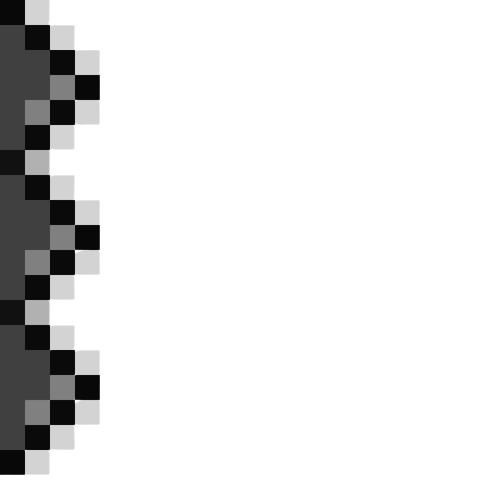
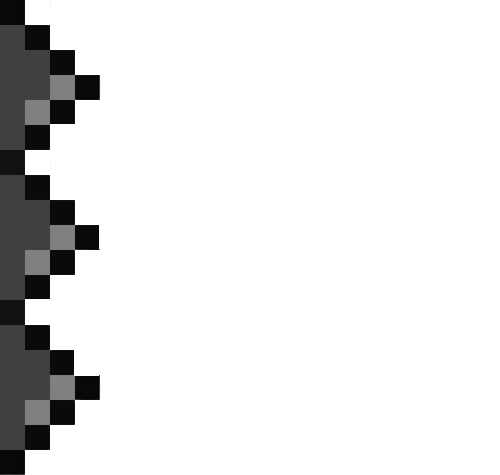
Printing the portal and transporting only when in range

Changed region(s): [[0.0, 0.0, 0.21, 1.0]]

diff --git a/src/mvc/Viewer.java b/src/mvc/Viewer.java
@@ -16,6 +16,7 @@ import javax.swing.JPanel;
 import javax.swing.Timer;
 
 import level.GameLevel;
+import level.Portal;
 import util.GameObject;
 
 
@@ -47,6 +48,7 @@ SOFTWARE.
  */ 
 public class Viewer extends JPanel {
 	private long CurrentAnimationTime= 0; 
+	private final String portalTexture = "res/level/floorLower.png";
 	
 	Model gameworld = new Model(1280, 720); 
 	 
@@ -106,6 +108,7 @@ public class Viewer extends JPanel {
 		
 		// Draw level
 		drawLevel(g);
+		drawPortals(g);
 		
 		drawSpikes(g);
 		  
@@ -159,9 +162,9 @@ public class Viewer extends JPanel {
 		try {
 			Integer height = getResHeight();
 			Image myImage = ImageIO.read(TextureToLoad);
-			g.drawImage(myImage, 0, 0, 300, height/3, 0, 0, 500, 500, null);
-			g.drawImage(myImage, 0, height/3, 300, height*2/3, 0, 0, 500, 500, null);
-			g.drawImage(myImage, 0, height*2/3, 300, height, 0, 0, 500, 500, null);
+			g.drawImage(myImage, 0, 0, 300, height/3, 0, 0, 500, 475, null);
+			g.drawImage(myImage, 0, height/3, 300, height*2/3, 0, 0, 500, 475, null);
+			g.drawImage(myImage, 0, height*2/3, 300, height, 0, 0, 500, 475, null);
 //			g.drawImage(myImage, 0, height*3/4, 300, height, 0, 0, 500, 500, null);
 			
 		} catch (IOException e) {
@@ -179,6 +182,21 @@ public class Viewer extends JPanel {
 			//64 by 128 
 			 g.drawImage(myImage, x,y, x+width, y+height, 0 , 0, 63, 127, null); 
 			
+		} catch (IOException e) {
+			// TODO Auto-generated catch block
+			e.printStackTrace();
+		}
+	}
+	
+	private void drawPortals(Graphics g) {
+		GameLevel level = gameworld.getLevel();	
+		
+		try {
+			File TextureToLoad = new File(portalTexture);
+			Image portalImage = ImageIO.read(TextureToLoad);
+			for (Portal p : level.getPortals()) {
+				g.drawImage(portalImage, p.getStart(), getResHeight()*3/8, p.getEnd(), getResHeight()/2, 90, 25, 0, 0, null);
+			}		
 		} catch (IOException e) {
 			// TODO Auto-generated catch block
 			e.printStackTrace();

diff --git a/src/util/Player.java b/src/util/Player.java
@@ -17,7 +17,6 @@ public class Player extends GameObject {
 	}
     
     public boolean isOnAir(GameLevel gameLevel)  {
-    	// This should call gameLevel
     	if (gameLevel.getPlayerOnUpper()) {
     		GameObject upper = gameLevel.getUpperFloor();
     		return this.getCentre().getY() + getHeight()/1.5 < upper.getCentre().getY() - upper.getHeight();
@@ -59,10 +58,23 @@ public class Player extends GameObject {
 			lastMovingDirection = 1;
 		}
 
-		/*if(Controller.getInstance().isKeyWPressed())
+		if(Controller.getInstance().isKeyWPressed())
 		{
-			Player.getCentre().ApplyVector( new Vector3f(0,2,0));
-		}*/
+			if (gameLevel.playerCanSwitch(this.getCentre().getX()) && !gameLevel.getPlayerOnUpper()) {
+				gameLevel.switchFloor();
+				float switchMovement = gameLevel.getUpperFloor().getCentre().getY();
+				this.getCentre().ApplyVector(new Vector3f(0, switchMovement, 0));
+			}
+		}
+		
+		if(Controller.getInstance().isKeySPressed())
+		{
+			if (gameLevel.playerCanSwitch(this.getCentre().getX()) && gameLevel.getPlayerOnUpper()) {
+				gameLevel.switchFloor();
+				float switchMovement = gameLevel.getUpperFloor().getCentre().getY();
+				this.getCentre().ApplyVector(new Vector3f(0, -switchMovement*2/3, 0));
+			}
+		}
 		
 		//if(Controller.getInstance().isKeySPressed()){Player.getCentre().ApplyVector( new Vector3f(0,-2,0));}
 //		System.out.println(jumpingIterations);

diff --git a/src/level/LevelScreen.java b/src/level/LevelScreen.java
@@ -11,14 +11,20 @@ public class LevelScreen {
 	private boolean playerOnUpper = false;
 	
 	// private ArrayList<Obstacle> obstacles = new ArrayList<Obstacle>();
-	// private ArrayList<Portal> portals = new ArrayList<portal>();
+	private ArrayList<Portal> portals = new ArrayList<Portal>();
 	
-	public LevelScreen(GameObject lowerFloor, GameObject upperFloor, GameObject spikes) {
+	public LevelScreen(GameObject lowerFloor, GameObject upperFloor, GameObject spikes, 
+					   ArrayList<Portal> portals) {
 		this.lowerFloor = lowerFloor;
 		this.upperFloor = upperFloor;
 		this.spikes = spikes;
+		this.portals = portals;
 	}
 	
+	public ArrayList<Portal> getPortals() {
+		return portals;
+	}
+		
 	public GameObject getSpikes() {
 		return spikes;
 	}
@@ -31,9 +37,12 @@ public class LevelScreen {
 		return upperFloor;
 	}
 	
-	public boolean playerCanSwitch() {
+	public boolean playerCanSwitch(float playerPosition) {
 		// Check whether the player can switch between upper and lower
-		return true;
+		for (Portal p : portals) {
+			if (p.isInPortalRange(playerPosition)) return true; 
+		}
+		return false;
 	}
 	
 	public boolean getPlayerOnUpper() {

diff --git a/src/mvc/Model.java b/src/mvc/Model.java
@@ -5,6 +5,7 @@ import java.util.concurrent.CopyOnWriteArrayList;
 
 import level.GameLevel;
 import level.LevelScreen;
+import level.Portal;
 import util.GameObject;
 import util.Player;
 import util.Point3f;
@@ -60,12 +61,15 @@ public class Model {
 	
 	private void createLevel() {
 		ArrayList<LevelScreen> levelScreens = new ArrayList<LevelScreen>();
+		ArrayList<Portal> portals1 = new ArrayList<Portal>();
 		
 		GameObject lowerFloor = new GameObject("res/level/floorLower.png", 1280, resHeight/8, new Point3f(resWidth/2, resHeight, 0));
 		GameObject upperFloor= new GameObject("res/level/floorUpper.png", 1280, resHeight/8, new Point3f(resWidth/2, resHeight/2, 0));
 		GameObject spikes = new GameObject("res/Spikeslarge_nobg.png", 20, 20, new Point3f(0, floorLevel, 0));
+		Portal portal = new Portal(resWidth*3/8, resWidth*4/8);
+		portals1.add(portal);
 		
-		LevelScreen levelScreen1 = new LevelScreen(lowerFloor, upperFloor, spikes);
+		LevelScreen levelScreen1 = new LevelScreen(lowerFloor, upperFloor, spikes, portals1);
 		levelScreens.add(levelScreen1);
 		
 		gameLevel = new GameLevel(levelScreens);

diff --git a/src/level/GameLevel.java b/src/level/GameLevel.java
@@ -30,9 +30,13 @@ public class GameLevel {
 		currentScreen = screens.get(currentScreenIndex);
 	}
 	
-	public boolean playerCanSwitch() {
+	public ArrayList<Portal> getPortals() {
+		return currentScreen.getPortals();
+	}
+	
+	public boolean playerCanSwitch(float playerPosition) {
 		// Check whether the player can switch between upper and lower
-		return currentScreen.playerCanSwitch();
+		return currentScreen.playerCanSwitch(playerPosition);
 	}
 	
 	public boolean getPlayerOnUpper() {

diff --git a/src/level/Portal.java b/src/level/Portal.java
@@ -1,0 +1,24 @@
+package level;
+
+public class Portal {
+	
+	Integer start;
+	Integer end;
+	
+	public Portal(Integer start, Integer end) {
+		this.start = start;
+		this.end = end;
+	}
+	
+	public boolean isInPortalRange(float position) {
+		return position > start && position < end;
+	}
+	
+	public Integer getStart() {
+		return start;
+	}
+	
+	public Integer getEnd() {
+		return end;
+	}
+}
